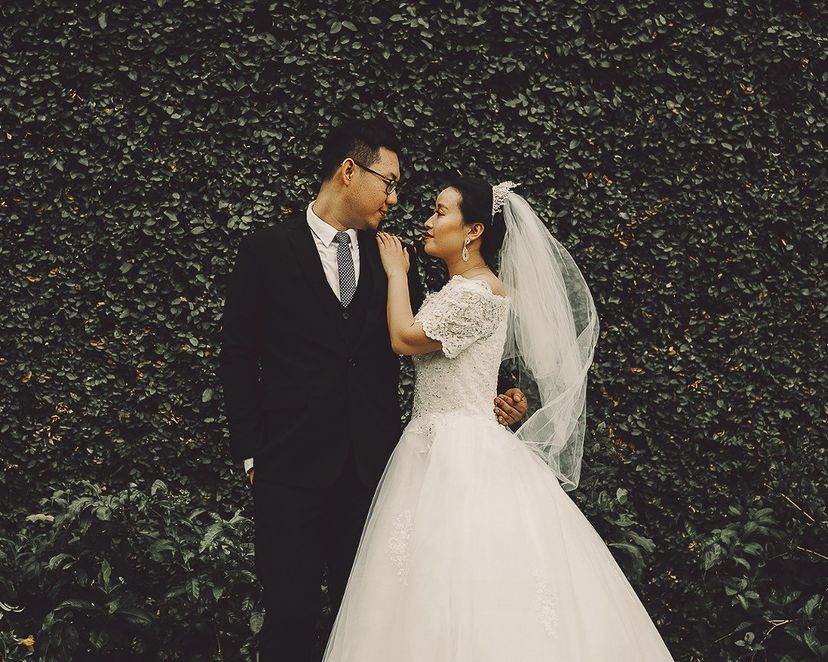
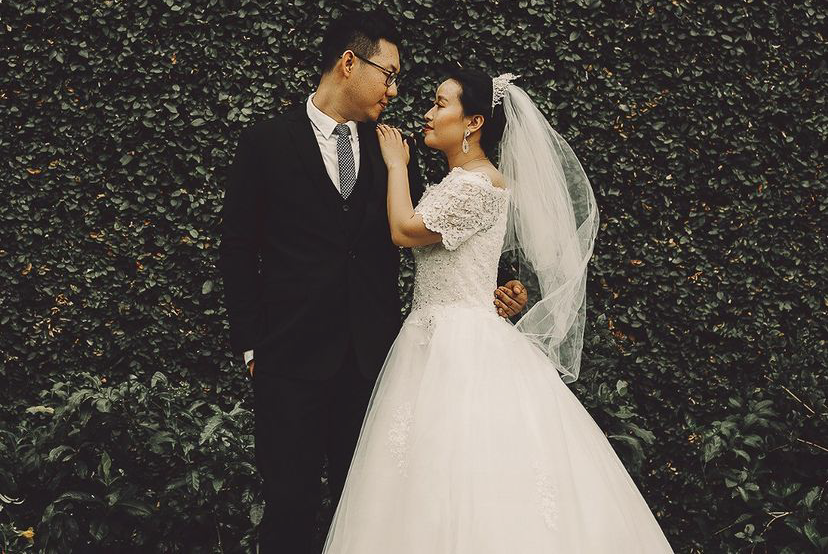
added the photo section

diff --git a/src/components/HomeSection.vue b/src/components/HomeSection.vue
@@ -1,32 +1,18 @@
 <script setup>
 import SlideShow from './SlideShow.vue';
+import AboutSection from './AboutSection.vue';
+import GallerySection from './GallerySection.vue';
 </script>
 
 <template>
-  <section  class=" px-wide-100 ">
+    <!-- slideShow -->
+  <section class="">
     <SlideShow/>
   </section>
 
   <!-- About us -->
-  <section class="px-wide-50">
-    <div class="container-fluid py-5 bg-dark ">
-            <div class="row text-center text-white">
-                <div class="col-lg-12 mx-auto">
-                    <div class="justify-content-center">
-                        <span class=" vw-4 text-uppercase fw-bold"> <img src="../assets/images/random/crown.png" width="40vw" alt=""> what makes us different? </span>
-                    </div>     
-                    <div class="text-left">
-                        <span class="vw-2"> 
-                            At Fo Creative Minds we are driven by our passion <br>
-                            for creativity and our commitment to delivering <br>
-                            transformative design solutions. We are not just in <br>
-                            the business of design; we are in the business of <br>
-                            making a difference.
-                        </span>
-                    </div>
-                </div>
-            </div>
-        </div><!-- End -->
+  <section >
+   <AboutSection></AboutSection>
   </section>
-  
+
 </template>

diff --git a/src/components/AboutSection.vue b/src/components/AboutSection.vue
@@ -1,0 +1,20 @@
+<template>
+     <div class="container-fluid py-5 bg-dark ">
+            <div class="row text-center text-white">
+                <div class="col-lg-12 mx-auto">
+                    <div class="justify-content-center">
+                        <span class=" vw-4 text-uppercase fw-bold"> <img src="../assets/images/random/crown.png" width="40vw" alt=""> what makes us different? </span>
+                    </div>     
+                    <div class="text-left">
+                        <span class="vw-2"> 
+                            At Fo Creative Minds we are driven by our passion <br>
+                            for creativity and our commitment to delivering <br>
+                            transformative design solutions. We are not just in <br>
+                            the business of design; we are in the business of <br>
+                            making a difference.
+                        </span>
+                    </div>
+                </div>
+            </div>
+        </div><!-- End -->
+</template>

diff --git a/src/components/GallerySection.vue b/src/components/GallerySection.vue
@@ -1,0 +1,19 @@
+<template>
+    <!-- Photograohy -->
+    <section class="px-wide-100">
+        <div class="container-fluid py-5">
+            <div class="row text-center">
+                <div class="col-lg-12 mx-auto">
+                    <div class="justify-content-center">
+                        <span class=" h1 display-4 text-uppercase fw-bold">
+                            Photography
+                        </span>
+                    </div>
+                    <div>
+                        <img src="../assets/images/random/DAVIE.png" alt="">
+                    </div>
+                </div>
+            </div>
+        </div>
+    </section>
+</template>

diff --git a/src/router/index.js b/src/router/index.js
@@ -9,14 +9,7 @@ const router = createRouter({
       name: 'home',
       component: HomeView
     },
-    {
-      path: '/about',
-      name: 'about',
-      // route level code-splitting
-      // this generates a separate chunk (About.[hash].js) for this route
-      // which is lazy-loaded when the route is visited.
-      component: () => import('../views/AboutView.vue')
-    }
+   
   ]
 })
 

diff --git a/src/views/HomeView.vue b/src/views/HomeView.vue
@@ -1,6 +1,7 @@
 <script setup>
 import HomeSection from '@/components/HomeSection.vue'
 import OurServices from '@/components/OurServices.vue';
+import GallerySection from '@/components/GallerySection.vue';
 
 </script>
 
@@ -8,6 +9,10 @@ import OurServices from '@/components/OurServices.vue';
   <main>
     <HomeSection/>
     <OurServices/>
+ 
+    <GallerySection/>
+
+
 
   </main>
 </template>

diff --git a/src/components/SlideShow.vue b/src/components/SlideShow.vue
@@ -36,8 +36,8 @@
 import NavigationBar from '@/components/NavigationBar.vue'
 
 import img1 from '../assets/images/carousel/1.png';
-import img2 from '../assets/images/carousel/2.png';
 import img3 from '../assets/images/carousel/3.png';
+import img2 from '../assets/images/carousel/2.png';
 import img4 from '../assets/images/carousel/4.png';
 export default {
   data() {

diff --git a/src/components/OurServices.vue b/src/components/OurServices.vue
@@ -1,6 +1,6 @@
 <template>
     <!-- Our services -->
-    <section class="px-wide-300">
+    <section class="px-wide-100">
         <div class="container-fluid py-5">
             <div class="row text-center">
                 <div class="col-lg-12 mx-auto">
